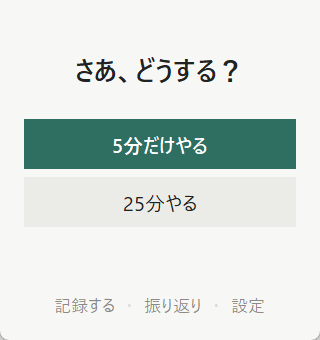
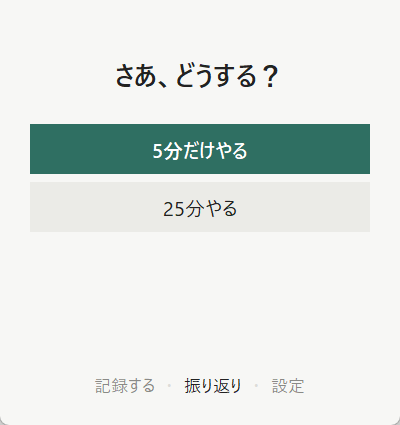
振り返りを「週・月・年」で切り替えられるようにする
週と月は日ごと（分）、年は月ごと（時間）の棒グラフにし、合計時間・記録した日・よくやったこともその期間で集計する。最後に選んだ期間は次に開いたときも引き継ぐ。

diff --git a/main.py b/main.py
@@ -25,7 +25,12 @@ FOCUS_LONG_SECONDS = 25 * 60
 BREAK_SECONDS = 10 * 60
 MAX_MANUAL_MINUTES = 24 * 60
 GAS_TIMEOUT_SECONDS = 10
-DASHBOARD_DAYS = 14
+# 振り返りの期間: キー → (切り替えボタンの表示, 日数, 見出し)
+DASHBOARD_PERIODS = {
+    "week": ("週", 7, "直近7日"),
+    "month": ("月", 30, "直近30日"),
+    "year": ("年", 365, "直近12か月"),
+}
 
 # 週次レポート配信サービス（開発者がデプロイした gas/report_service/ の WebアプリURL）
 # 環境変数 JUSTDOIT_REPORT_URL が設定されていればそちらを優先する
@@ -299,12 +304,50 @@ def summarize_by_task(records):
     return summary[summary > 0].sort_values(ascending=False)
 
 
-def summarize_by_day(records, days=DASHBOARD_DAYS, today=None):
+def summarize_by_day(records, days=7, today=None):
     """直近 days 日分の日別合計（記録がない日も0分として含める）"""
     today = (today or datetime.now()).date()
     index = pd.date_range(today - timedelta(days=days - 1), today).date
     daily = records.groupby(records["日時"].dt.date)["分"].sum()
     return daily.reindex(index, fill_value=0)
+
+
+def summarize_period(records, period, today=None):
+    """振り返りの期間（"week" / "month" / "year"）ごとの集計
+
+    week は直近7日・month は直近30日を日別（分）で、year は直近12か月を月別（時間）で返す。
+    """
+    today = (today or datetime.now()).date()
+    if period == "year":
+        months = pd.period_range(end=pd.Period(today, freq="M"), periods=12, freq="M")
+        start = months[0].start_time.date()
+    else:
+        start = today - timedelta(days=DASHBOARD_PERIODS[period][1] - 1)
+
+    dates = records["日時"].dt.date
+    in_range = records[(dates >= start) & (dates <= today)]
+    daily = summarize_by_day(in_range, days=(today - start).days + 1, today=datetime.combine(today, datetime.min.time()))
+
+    if period == "year":
+        monthly = in_range.groupby(in_range["日時"].dt.to_period("M"))["分"].sum().reindex(months, fill_value=0)
+        labels = [f"{p.month}月" for p in months]
+        values = [round(mins / 60, 1) for mins in monthly.values]
+        unit = "時間"
+    else:
+        labels = [f"{d.month}/{d.day}" for d in daily.index]
+        values = [int(mins) for mins in daily.values]
+        unit = "分"
+
+    return {
+        "title": DASHBOARD_PERIODS[period][2],
+        "labels": labels,
+        "values": values,
+        "unit": unit,
+        "total": int(in_range["分"].sum()),
+        "active_days": int((daily > 0).sum()),
+        "span_days": len(daily),
+        "by_task": summarize_by_task(in_range),
+    }
 
 
 def format_hours_mins(total_mins):
@@ -450,6 +493,27 @@ class JustDoItApp:
         header.pack(fill="x", pady=(0, 16))
         make_label(header, title, size=16, bold=True).pack(side="left")
         make_link(header, "戻る", self.create_main_menu).pack(side="right")
+        return header
+
+    def make_tabs(self, parent, options, selected, on_select):
+        """「週｜月｜年」のような切り替えボタン（選んでいるものだけ白く浮かせる）"""
+        tabs = tk.Frame(parent, bg=COLOR_SUBTLE, padx=2, pady=2)
+        for key, text in options:
+            active = key == selected
+            tab = tk.Label(
+                tabs,
+                text=text,
+                font=ui_font(10, bold=active),
+                fg=COLOR_TEXT if active else COLOR_MUTED,
+                bg="white" if active else COLOR_SUBTLE,
+                padx=self.px(14),
+                pady=self.px(2),
+                cursor="arrow" if active else "hand2",
+            )
+            tab.pack(side="left")
+            if not active:
+                tab.bind("<Button-1>", lambda event, k=key: on_select(k))
+        return tabs
 
     def create_main_menu(self):
         """起動時のメインメニュー（迷わないよう、目立つボタンは「5分だけやる」の1つだけ）"""
@@ -813,8 +877,10 @@ class JustDoItApp:
         email_entry.bind("<Return>", register)
 
     # ---------- 振り返り（ダッシュボード） ----------
-    def show_dashboard(self):
-        """ローカルのCSVを読み込んで、合計時間・日別グラフ・よくやったことを表示する"""
+    def show_dashboard(self, period=None):
+        """ローカルのCSVを読み込んで、期間（週・月・年）ごとの合計時間・グラフ・よくやったことを表示する"""
+        # 最後に選んだ期間を覚えておき、次に開いたときも同じ期間で表示する
+        self.dashboard_period = period or getattr(self, "dashboard_period", "week")
         csv_path = get_csv_path()
         no_record_message = "まだ記録がありません。\nまずは5分やってみましょう。"
 
@@ -828,68 +894,81 @@ class JustDoItApp:
             messagebox.showerror("エラー", f"データの読み込み中にエラーが発生しました:\n{e}", parent=self.root)
             return
 
-        by_task = summarize_by_task(records)
-        if by_task.empty:
+        if summarize_by_task(records).empty:
             messagebox.showinfo("振り返り", no_record_message, parent=self.root)
             return
-        by_day = summarize_by_day(records)
+        summary = summarize_period(records, self.dashboard_period)
 
         screen = self.make_screen("720x540")
-        self.make_header(screen, "振り返り")
+        header = self.make_header(screen, "振り返り")
+        self.make_tabs(
+            header,
+            [(key, label) for key, (label, _, _) in DASHBOARD_PERIODS.items()],
+            self.dashboard_period,
+            self.show_dashboard,
+        ).pack(side="left", padx=(self.px(20), 0))
 
-        # 合計時間（今日・直近7日・累計）
+        # 合計時間（この期間・記録した日・累計）
         stats = tk.Frame(screen, bg=COLOR_BG)
         stats.pack(fill="x", pady=(0, 16))
-        for label, mins in [
-            ("今日", int(by_day.iloc[-1])),
-            ("直近7日", int(by_day.iloc[-7:].sum())),
-            (f"累計（{len(records)}回）", int(records["分"].sum())),
+        for label, value in [
+            (summary["title"], format_hours_mins(summary["total"])),
+            ("記録した日", f"{summary['active_days']} / {summary['span_days']}日"),
+            (f"累計（{len(records)}回）", format_hours_mins(int(records["分"].sum()))),
         ]:
             cell = tk.Frame(stats, bg=COLOR_BG)
             cell.pack(side="left", expand=True, fill="x")
             make_label(cell, label, size=10, color=COLOR_MUTED).pack(anchor="w")
-            make_label(cell, format_hours_mins(mins), size=18, bold=True).pack(anchor="w")
+            make_label(cell, value, size=18, bold=True).pack(anchor="w")
 
         body = tk.Frame(screen, bg=COLOR_BG)
         body.pack(fill="both", expand=True)
 
-        # よくやったこと（上位5件）
+        # よくやったこと（この期間の上位5件）
         tasks = tk.Frame(body, bg=COLOR_BG)
         tasks.pack(side="right", fill="y", padx=(24, 0))
         make_label(tasks, "よくやったこと", size=10, color=COLOR_MUTED).grid(
             row=0, column=0, columnspan=2, sticky="w", pady=(0, 6)
         )
-        for row, (task, mins) in enumerate(by_task.head(5).items(), start=1):
+        if summary["by_task"].empty:
+            make_label(tasks, "この期間の記録はありません", size=11, color=COLOR_MUTED).grid(
+                row=1, column=0, columnspan=2, sticky="w"
+            )
+        for row, (task, mins) in enumerate(summary["by_task"].head(5).items(), start=1):
             name = task if len(task) <= 10 else task[:9] + "…"
             make_label(tasks, name, size=11).grid(row=row, column=0, sticky="w", pady=2)
             make_label(tasks, format_hours_mins(int(mins)), size=11, color=COLOR_MUTED).grid(
                 row=row, column=1, sticky="e", padx=(16, 0), pady=2
             )
 
-        # 日別の作業時間
+        # 期間内の作業時間（週・月は日別、年は月別）
         chart = tk.Frame(body, bg=COLOR_BG)
         chart.pack(side="left", fill="both", expand=True)
-        make_label(chart, f"直近{DASHBOARD_DAYS}日（分）", size=10, color=COLOR_MUTED).pack(anchor="w")
+        per = "月ごと" if self.dashboard_period == "year" else "日ごと"
+        make_label(chart, f"{per}の作業時間（{summary['unit']}）", size=10, color=COLOR_MUTED).pack(anchor="w")
 
         # pyplot を使わず Figure を直接生成することで、Tkinter 埋め込み時のメモリリークを防ぐ
         fig = Figure(figsize=(4.6, 3.4), dpi=100 * self.scale, facecolor=COLOR_BG)
         ax = fig.add_subplot()
         ax.set_facecolor(COLOR_BG)
-        ax.bar(range(len(by_day)), by_day.values, color=COLOR_ACCENT, width=0.6)
+        values = summary["values"]
+        ax.bar(range(len(values)), values, color=COLOR_ACCENT, width=0.6)
 
-        # 日付は1日おきに表示する（今日の日付は必ず表示）
-        ticks = list(range(len(by_day) - 1, -1, -2))[::-1]
+        # 日付が詰まらないよう間引く（最新の日・月は必ず表示）
+        step = {"week": 1, "month": 5, "year": 1}[self.dashboard_period]
+        ticks = list(range(len(values) - 1, -1, -step))[::-1]
         ax.set_xticks(ticks)
-        ax.set_xticklabels([f"{by_day.index[i].month}/{by_day.index[i].day}" for i in ticks])
-        ax.set_ylim(bottom=0, top=max(60, by_day.max() * 1.15))
+        ax.set_xticklabels([summary["labels"][i] for i in ticks])
+        min_top = 1 if summary["unit"] == "時間" else 60
+        ax.set_ylim(bottom=0, top=max(min_top, max(values) * 1.15))
         ax.tick_params(colors=COLOR_MUTED, labelsize=8, length=0)
         ax.grid(axis="y", color=COLOR_BORDER, linewidth=0.8)
         ax.set_axisbelow(True)
         ax.spines[["top", "right", "left"]].set_visible(False)
         ax.spines["bottom"].set_color(COLOR_BORDER)
-        if by_day.sum() == 0:
+        if summary["total"] == 0:
             ax.text(
-                0.5, 0.5, "直近の記録はありません", ha="center", color=COLOR_MUTED, transform=ax.transAxes
+                0.5, 0.5, "この期間の記録はありません", ha="center", color=COLOR_MUTED, transform=ax.transAxes
             )
         fig.tight_layout()
 

diff --git a/tests/test_main.py b/tests/test_main.py
@@ -48,6 +48,35 @@ class RecordsTest(unittest.TestCase):
         )
         self.assertEqual(list(by_day.values), [25, 0, 10])
 
+    def test_summarize_period_week_and_month(self):
+        main.append_record_to_csv(self.csv_path, "2026-08-01 09:00:00", "古い", 30)
+        main.append_record_to_csv(self.csv_path, "2026-08-14 09:00:00", "学習", 20)
+        main.append_record_to_csv(self.csv_path, "2026-08-20 09:00:00", "制作", 25)
+        main.append_record_to_csv(self.csv_path, "2026-08-20 10:00:00", "制作", 5)
+        records = main.load_records(self.csv_path)
+        today = datetime(2026, 8, 20)
+
+        week = main.summarize_period(records, "week", today=today)
+        self.assertEqual(week["labels"][0], "8/14")
+        self.assertEqual(week["values"], [20, 0, 0, 0, 0, 0, 30])
+        self.assertEqual((week["total"], week["active_days"], week["span_days"]), (50, 2, 7))
+        self.assertEqual(week["by_task"].to_dict(), {"制作": 30, "学習": 20})
+
+        month = main.summarize_period(records, "month", today=today)
+        self.assertEqual((month["total"], month["span_days"]), (80, 30))
+
+    def test_summarize_period_year_is_monthly_in_hours(self):
+        main.append_record_to_csv(self.csv_path, "2025-08-31 09:00:00", "範囲外", 600)
+        main.append_record_to_csv(self.csv_path, "2025-09-01 09:00:00", "制作", 90)
+        main.append_record_to_csv(self.csv_path, "2026-08-20 09:00:00", "制作", 30)
+
+        year = main.summarize_period(main.load_records(self.csv_path), "year", today=datetime(2026, 8, 20))
+        self.assertEqual(year["labels"][0], "9月")
+        self.assertEqual(year["labels"][-1], "8月")
+        self.assertEqual(year["values"][0], 1.5)
+        self.assertEqual(year["values"][-1], 0.5)
+        self.assertEqual((year["unit"], year["total"]), ("時間", 120))
+
     def test_rows_with_invalid_datetime_are_skipped(self):
         self.csv_path.parent.mkdir(parents=True)
         self.csv_path.write_text(

diff --git a/README.md b/README.md
@@ -41,14 +41,15 @@
 - **ローカルに保存**：CSV へ自動追記（`utf-8-sig` で Excel でも文字化けしない）
 
 ### 3. 📊 振り返り（ダッシュボード）
-- 今日 / 直近7日 / 累計の作業時間サマリー
-- 直近14日間の日別作業時間（棒グラフ）
-- よくやったこと（作業内容別の上位5件）
+- 「週 ｜ 月 ｜ 年」の切り替えで、直近7日・30日（日別）と直近12か月（月別）を棒グラフで表示
+- その期間の合計時間・記録した日数と、累計の作業時間
+- よくやったこと（その期間の作業内容別 上位5件）
 
 ### 4. 📧 週次レポート（メールアドレスを登録するだけ）
 - 「設定」でメールアドレスを入力し、届いた確認コードを入れるだけで登録完了
 - **毎週月曜 9時ごろ、先週の振り返りレポートが自動で届く**（アプリを開いていなくても、PC の電源が切れていても届く）
-  - 総作業時間と前の週との差、記録回数、記録した日数、作業内容別の内訳
+  - グラフ入りの HTML メール：総作業時間と前の週との差、記録した日、一番がんばった日、曜日ごとの棒グラフ、作業内容別の割合バー
+  - 画像を使わず表とインラインスタイルで描くので、Gmail やスマホでも崩れない
 - オフライン中の記録は自動で再送。メール内のリンクやアプリからいつでも配信停止でき、停止するとサーバー上の記録も削除される
 
 ---
